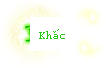
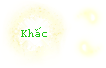
tsky: lưu tạm ảnh T8
Claude-Session: https://claude.ai/code/session_01UHwqGer2W7xK9ARAi6GfrR

Changed region(s): [[0.1981, 0.2353, 0.6226, 0.6765], [0.3113, 0.6765, 0.4245, 0.7647], [0.283, 0.2353, 0.3396, 0.2941]]

diff --git a/tsky/scripts/make_img.py b/tsky/scripts/make_img.py
@@ -35,6 +35,31 @@ class Img:
             for x in range(x0, x0 + w):
                 self.px[x, y] = c
 
+    def inpaint(self, mask):
+        """lấp các pixel trong mask bằng trung bình các pixel lân cận không thuộc mask (lan dần)"""
+        mask = set(mask)
+        W, H = self.im.size
+        while mask:
+            fill = {}
+            for (x, y) in mask:
+                nb = [self.px[x+dx, y+dy] for dx in (-1, 0, 1) for dy in (-1, 0, 1)
+                      if (dx or dy) and 0 <= x+dx < W and 0 <= y+dy < H and (x+dx, y+dy) not in mask]
+                if nb:
+                    fill[(x, y)] = tuple(sum(c[i] for c in nb) // len(nb) for i in range(4))
+            if not fill:
+                break
+            for k, c in fill.items():
+                self.px[k] = c
+            mask -= set(fill)
+
+    def mask_where(self, box, pred, grow=0):
+        x0, y0, w, h = box
+        m = {(x, y) for x in range(x0, x0 + w) for y in range(y0, y0 + h) if pred(self.px[x, y], x, y)}
+        for _ in range(grow):
+            m |= {(x+dx, y+dy) for (x, y) in m for dx in (-1, 0, 1) for dy in (-1, 0, 1)
+                  if 0 <= x+dx < self.im.width and 0 <= y+dy < self.im.height}
+        return m
+
     # ---- vẽ
     def text(self, box, txt, color, mode='metric', align='center', valign='center', dx=0, dy=0):
         CHECK.append(txt)
@@ -141,13 +166,23 @@ def main():
     # --- nhãn lớn / hiệu ứng
     im = Img('baoji'); im.clear((0,0,82,36)); im.text((0,0,82,36), 'Bạo kích!', (255,149,0)); done(im)
     im = Img('shanbi'); im.clear((0,0,95,36)); im.text((0,0,95,36), 'Né!', (206,117,255)); done(im)
-    im = Img('tx_ke'); im.clear((30,17,46,34)); im.text((30,17,46,34), 'Khắc', (33,199,19)); done(im)
-    im = Img('tx_qu'); im.text((30,17,46,34), 'Kém', (223,0,0)); done(im)
+    im = Img('tx_ke')
+    im.inpaint(im.mask_where((18, 15, 34, 34), lambda p, x, y: p[3] > 0 and p[1] > p[0] + 12 and p[1] > p[2] + 12, 1))
+    im.text((14, 20, 42, 24), 'Khắc', (33,199,19)); done(im)
+    im = Img('tx_qu')
+    im.inpaint(im.mask_where((18, 15, 34, 34), lambda p, x, y: p[3] > 0 and p[0] > 60 and p[1] < 80 and p[0] > p[1] + 40, 1))
+    im.text((14, 20, 42, 24), 'Kém', (223,0,0)); done(im)
     im = Img('ok'); im.clear((0,0,26,20)); im.text((0,0,26,20), 'Xong', (204,0,0)); done(im)
     # --- rand: giáp ất bính đinh trong vòng tròn
     im = Img('rand')
     for i, t in enumerate(['G', 'Ấ', 'B', 'Đ']):
-        b = (26*i+5, 5, 16, 16); im.clear(b, (237,20,0,255)); im.text(b, t, (0,0,0))
+        b = (26*i+5, 5, 16, 16)
+        for y in range(26):
+            for x in range(26*i, 26*i+26):
+                r = ((x - 26*i - 12.0) ** 2 + (y - 12.0) ** 2) ** 0.5
+                if im.px[x, y][3] == 0 and r > 10.3: continue
+                im.px[x, y] = (0,0,0,255) if (r > 10.3 or 6.0 < r <= 7.0) else (237,20,0,255)
+        im.text(b, t, (0,0,0))
     done(im)
     # --- biển địa danh dọc (ad: 6 ô rộng 21), chữ xoay
     im = Img('ad')
@@ -155,6 +190,29 @@ def main():
     for i, t in enumerate(names):
         b = (21*i, 0, 21, 70); im.clear(b); im.text_rot((21*i+1, 0, 19, 70), t, (198,57,49))
     done(im)
+    # --- key.png: nhãn trên nút phím mềm (nền nút chuyển sắc theo hàng)
+    im = Img('key')
+    im.clear_rows((120, 330, 57, 19), 117); im.text((120, 330, 57, 19), 'Phím trái', (72,72,83))
+    im.clear_rows((462, 330, 57, 19), 457); im.text((462, 330, 57, 19), 'Phím phải', (72,72,83))
+    done(im)
+    # --- CG2: chữ vàng trên nền đen (giữ dòng "...")
+    im = Img('CG2')
+    GOLD = (194,160,69)
+    for (y0, y1, t) in [(24, 50, 'Đây là đâu!?'), (87, 108, 'Ta chết như vậy sao?'),
+                        (120, 142, 'Ông nội, Tiểu Linh Tử còn đợi ta...')]:
+        im.clear((0, y0, 240, y1 - y0), (0,0,0,255)); im.text((0, y0, 240, y1 - y0), t, GOLD)
+    done(im)
+    # --- npc21: bia mộ, chữ khắc dọc
+    im = Img('npc21')
+    im.inpaint(im.mask_where((16, 6, 13, 36), lambda p, x, y: p[3] > 0 and sum(p[:3]) < 330))
+    im.text((16, 8, 13, 14), 'Mộ', (70, 70, 50)); done(im)
+    # --- obj_jin0: biển hiệu
+    im = Img('obj_jin0')
+    GL = {(145,79,32,255), (142,53,11,255)}
+    def inside(x, y):
+        return 50 + (y - 40) * 5 // 55 + 3 <= x <= 75 + (y - 46) * 3 // 50 - 2
+    im.inpaint(im.mask_where((50, 50, 30, 55), lambda p, x, y: p in GL and inside(x, y), 1))
+    im.text_rot((54, 50, 20, 52), 'Kim Loan', (142,53,11)); done(im)
 
 if __name__ == '__main__':
     main()
